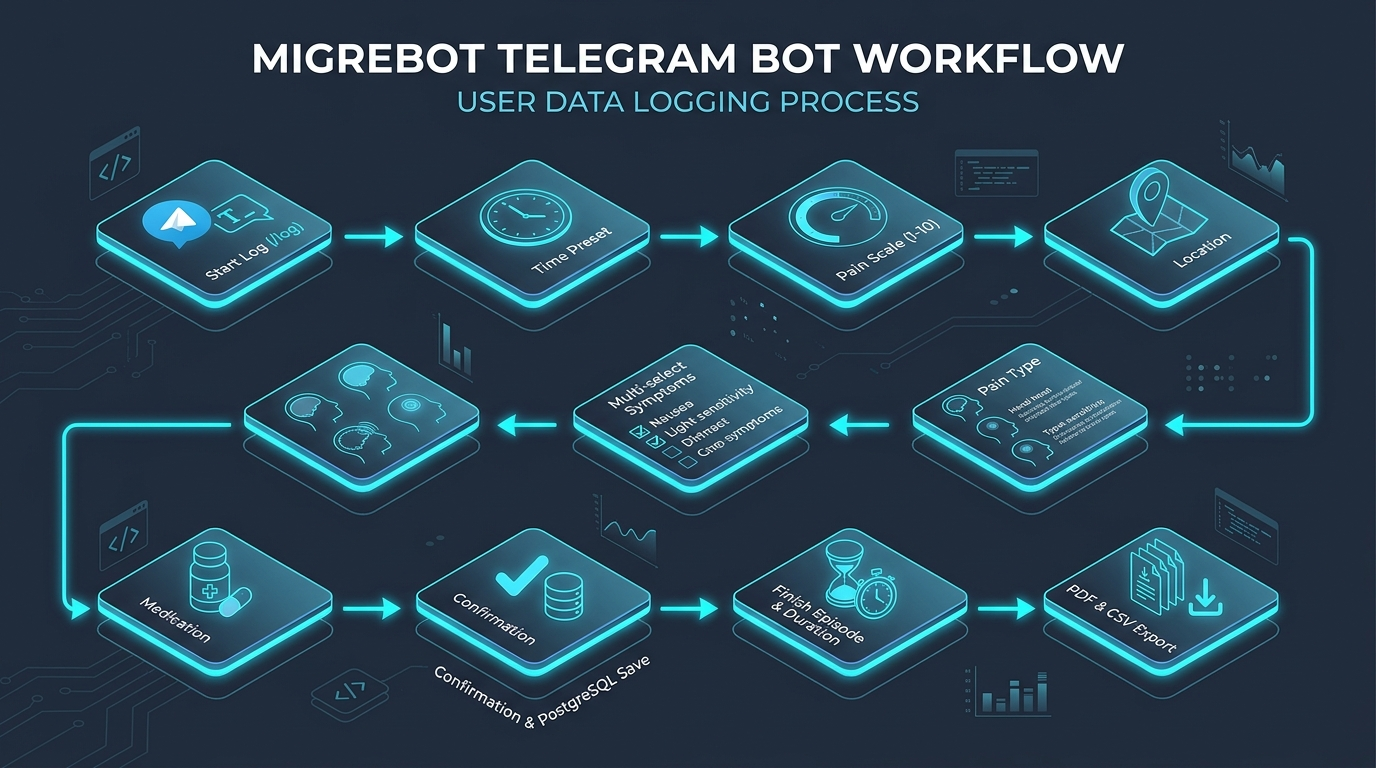
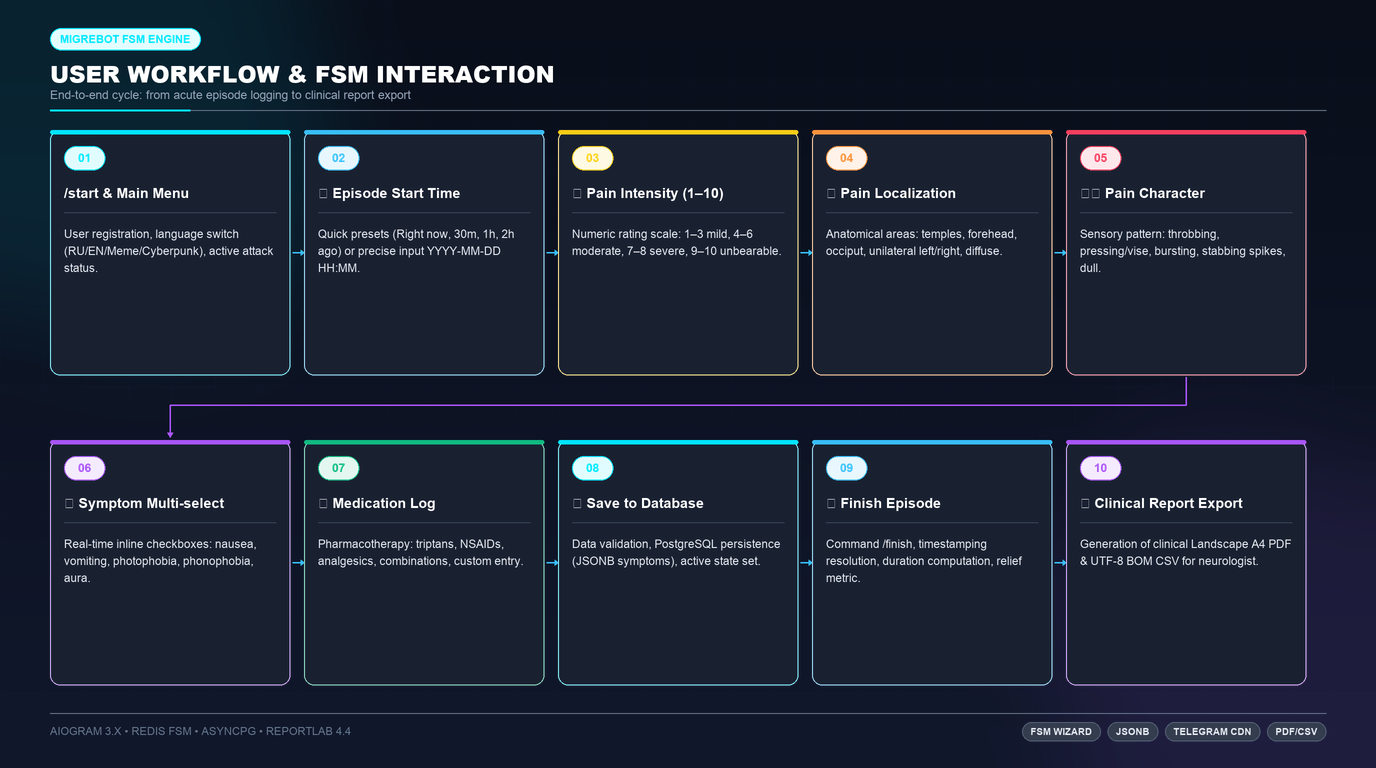
docs(assets): add high-precision typo-free diagrams & bot step cards (ru/en)

diff --git a/handlers/headache.py b/handlers/headache.py
@@ -20,7 +20,7 @@ from keyboards.headache_kb import (
 )
 from keyboards.main_menu import get_main_menu_keyboard, LOG_BUTTONS, CANCEL_BUTTONS
 from db import create_episode, get_active_episode, upsert_user, get_user_language
-from services.media_cache import get_photo_source, extract_and_record
+from services.media_cache import get_photo_source, extract_and_record, get_localized_asset
 from locales import (
     get_text,
     get_intensity_label,
@@ -32,15 +32,31 @@ from locales import (
 
 router = Router()
 
-# Paths to localized Russian step illustration cards
+# Paths to localized step illustration cards
 BASE_ASSETS = Path(__file__).parent.parent / "assets" / "images" / "ru"
-IMG_FLOW = BASE_ASSETS / "flow_diagram.png"
-IMG_HERO = BASE_ASSETS / "hero_banner.png"
-IMG_PAIN_SCALE = BASE_ASSETS / "steps" / "pain_scale.png"
-IMG_LOCATION = BASE_ASSETS / "steps" / "location.png"
-IMG_PAIN_TYPE = BASE_ASSETS / "steps" / "pain_type.png"
-IMG_SYMPTOMS = BASE_ASSETS / "steps" / "symptoms.png"
-IMG_MEDICATION = BASE_ASSETS / "steps" / "medication.png"
+
+
+def get_step_asset(step_name: str, lang: str = "ru") -> Path:
+    mapping = {
+        "flow": "flow_diagram.png",
+        "hero": "hero_banner.png",
+        "pain_scale": "steps/pain_scale.png",
+        "location": "steps/location.png",
+        "pain_type": "steps/pain_type.png",
+        "symptoms": "steps/symptoms.png",
+        "medication": "steps/medication.png",
+    }
+    rel = mapping.get(step_name, f"steps/{step_name}.png")
+    return get_localized_asset(rel, lang)
+
+
+IMG_FLOW = get_step_asset("flow", "ru")
+IMG_HERO = get_step_asset("hero", "ru")
+IMG_PAIN_SCALE = get_step_asset("pain_scale", "ru")
+IMG_LOCATION = get_step_asset("location", "ru")
+IMG_PAIN_TYPE = get_step_asset("pain_type", "ru")
+IMG_SYMPTOMS = get_step_asset("symptoms", "ru")
+IMG_MEDICATION = get_step_asset("medication", "ru")
 
 
 # --- Navigation History Helper ---
@@ -259,7 +275,7 @@ async def callback_back(callback: CallbackQuery, state: FSMContext):
         await state.set_state(HeadacheLogSG.start_time)
         await show_or_edit_step(
             callback,
-            IMG_FLOW,
+            get_step_asset("flow", lang),
             step_1_text(lang),
             get_start_time_keyboard(lang)
         )
@@ -283,7 +299,7 @@ async def callback_back(callback: CallbackQuery, state: FSMContext):
     if prev_state == HeadacheLogSG.start_time:
         await show_or_edit_step(
             callback,
-            IMG_FLOW,
+            get_step_asset("flow", lang),
             step_1_text(lang),
             get_start_time_keyboard(lang)
         )
@@ -291,7 +307,7 @@ async def callback_back(callback: CallbackQuery, state: FSMContext):
         time_str = data.get("start_time", datetime.now().strftime("%Y-%m-%d %H:%M"))
         await show_or_edit_step(
             callback,
-            IMG_PAIN_SCALE,
+            get_step_asset("pain_scale", lang),
             step_2_text(time_str, lang),
             get_intensity_keyboard(lang)
         )
@@ -299,7 +315,7 @@ async def callback_back(callback: CallbackQuery, state: FSMContext):
         intensity = data.get("intensity", 5)
         await show_or_edit_step(
             callback,
-            IMG_LOCATION,
+            get_step_asset("location", lang),
             step_3_text(intensity, lang),
             get_location_keyboard(lang)
         )
@@ -307,7 +323,7 @@ async def callback_back(callback: CallbackQuery, state: FSMContext):
         loc_key = data.get("location", "left")
         await show_or_edit_step(
             callback,
-            IMG_PAIN_TYPE,
+            get_step_asset("pain_type", lang),
             step_4_text(loc_key, lang),
             get_pain_type_keyboard(lang)
         )
@@ -316,14 +332,14 @@ async def callback_back(callback: CallbackQuery, state: FSMContext):
         selected_syms = set(data.get("symptoms", []))
         await show_or_edit_step(
             callback,
-            IMG_SYMPTOMS,
+            get_step_asset("symptoms", lang),
             step_5_text(pt_key, lang),
             get_symptoms_keyboard(selected_syms, lang)
         )
     elif prev_state == HeadacheLogSG.medication:
         await show_or_edit_step(
             callback,
-            IMG_MEDICATION,
+            get_step_asset("medication", lang),
             step_6_text(lang),
             get_medication_keyboard(lang)
         )
@@ -352,7 +368,7 @@ async def start_headache_log(message: Message, state: FSMContext):
     await state.set_state(HeadacheLogSG.start_time)
     await show_or_edit_step(
         message,
-        IMG_FLOW,
+        get_step_asset("flow", lang),
         step_1_text(lang),
         get_start_time_keyboard(lang)
     )
@@ -383,7 +399,7 @@ async def process_start_time(callback: CallbackQuery, callback_data: TimeCallbac
         )
         await show_or_edit_step(
             callback,
-            IMG_FLOW,
+            get_step_asset("flow", lang),
             custom_prompt,
             get_cancel_keyboard(show_back=True, lang=lang)
         )
@@ -395,7 +411,7 @@ async def process_start_time(callback: CallbackQuery, callback_data: TimeCallbac
     await state.set_state(HeadacheLogSG.intensity)
     await show_or_edit_step(
         callback,
-        IMG_PAIN_SCALE,
+        get_step_asset("pain_scale", lang),
         step_2_text(time_str, lang),
         get_intensity_keyboard(lang)
     )
@@ -411,7 +427,7 @@ async def process_custom_start_time(message: Message, state: FSMContext):
     await state.set_state(HeadacheLogSG.intensity)
     await show_or_edit_step(
         message,
-        IMG_PAIN_SCALE,
+        get_step_asset("pain_scale", lang),
         step_2_text(time_str, lang),
         get_intensity_keyboard(lang)
     )
@@ -429,7 +445,7 @@ async def process_intensity(callback: CallbackQuery, callback_data: IntensityCal
     await state.set_state(HeadacheLogSG.location)
     await show_or_edit_step(
         callback,
-        IMG_LOCATION,
+        get_step_asset("location", lang),
         step_3_text(intensity_val, lang),
         get_location_keyboard(lang)
     )
@@ -447,7 +463,7 @@ async def process_location(callback: CallbackQuery, callback_data: LocationCallb
     await state.set_state(HeadacheLogSG.pain_type)
     await show_or_edit_step(
         callback,
-        IMG_PAIN_TYPE,
+        get_step_asset("pain_type", lang),
         step_4_text(loc_key, lang),
         get_pain_type_keyboard(lang)
     )
@@ -466,7 +482,7 @@ async def process_pain_type(callback: CallbackQuery, callback_data: PainTypeCall
     await state.update_data(symptoms=[])
     await show_or_edit_step(
         callback,
-        IMG_SYMPTOMS,
+        get_step_asset("symptoms", lang),
         step_5_text(pt_key, lang),
         get_symptoms_keyboard(set(), lang)
     )
@@ -501,7 +517,7 @@ async def process_symptoms(callback: CallbackQuery, callback_data: SymptomCallba
         await state.set_state(HeadacheLogSG.medication)
         await show_or_edit_step(
             callback,
-            IMG_MEDICATION,
+            get_step_asset("medication", lang),
             step_6_text(lang),
             get_medication_keyboard(lang)
         )
@@ -520,7 +536,7 @@ async def process_medication_skip(callback: CallbackQuery, callback_data: Medica
         await state.set_state(HeadacheLogSG.confirm)
         await show_or_edit_step(
             callback,
-            IMG_FLOW,
+            get_step_asset("flow", lang),
             format_summary(data, lang),
             get_confirm_keyboard(lang)
         )
@@ -537,7 +553,7 @@ async def process_medication_input(message: Message, state: FSMContext):
     await state.set_state(HeadacheLogSG.confirm)
     await show_or_edit_step(
         message,
-        IMG_FLOW,
+        get_step_asset("flow", lang),
         format_summary(data, lang),
         get_confirm_keyboard(lang)
     )
@@ -577,7 +593,7 @@ async def process_confirmation(callback: CallbackQuery, callback_data: ConfirmCa
 
     await show_or_edit_step(
         callback,
-        IMG_HERO,
+        get_step_asset("hero", lang),
         saved_text,
         None
     )

diff --git a/handlers/startHandler.py b/handlers/startHandler.py
@@ -12,7 +12,7 @@ from keyboards.main_menu import (
     HELP_BUTTONS,
 )
 from db import upsert_user, get_recent_episodes, get_user_language
-from services.media_cache import get_photo_source, extract_and_record
+from services.media_cache import get_photo_source, extract_and_record, get_localized_asset
 from locales import (
     get_text,
     get_intensity_label,
@@ -22,9 +22,9 @@ from locales import (
     get_medication_map,
 )
 
-BANNER_PATH = Path(__file__).parent.parent / "assets" / "images" / "ru" / "hero_banner.png"
-FLOW_PATH = Path(__file__).parent.parent / "assets" / "images" / "ru" / "flow_diagram.png"
-DB_PATH = Path(__file__).parent.parent / "assets" / "images" / "ru" / "db_diagram.png"
+BANNER_PATH = get_localized_asset("hero_banner.png", "ru")
+FLOW_PATH = get_localized_asset("flow_diagram.png", "ru")
+DB_PATH = get_localized_asset("db_diagram.png", "ru")
 
 router = Router()
 
@@ -100,26 +100,27 @@ async def start(message: Message):
 
     welcome_text = get_text("start_welcome", lang)
     main_kb = get_main_menu_keyboard(lang)
+    banner_img = get_localized_asset("hero_banner.png", lang)
 
-    if BANNER_PATH.is_file():
-        photo_src = get_photo_source(BANNER_PATH)
+    if banner_img.is_file():
+        photo_src = get_photo_source(banner_img)
         try:
             res = await message.answer_photo(
                 photo=photo_src,
                 caption=welcome_text,
                 reply_markup=main_kb
             )
-            extract_and_record(BANNER_PATH, res)
+            extract_and_record(banner_img, res)
             return
         except Exception:
             if isinstance(photo_src, str):
                 try:
                     res = await message.answer_photo(
-                        photo=FSInputFile(str(BANNER_PATH)),
+                        photo=FSInputFile(str(banner_img)),
                         caption=welcome_text,
                         reply_markup=main_kb
                     )
-                    extract_and_record(BANNER_PATH, res)
+                    extract_and_record(banner_img, res)
                     return
                 except Exception:
                     pass
@@ -134,26 +135,27 @@ async def help_command(message: Message):
     lang = await get_user_language(user.id) if user else "ru"
     help_text = get_text("help_text", lang)
     main_kb = get_main_menu_keyboard(lang)
+    flow_img = get_localized_asset("flow_diagram.png", lang)
 
-    if FLOW_PATH.is_file():
-        photo_src = get_photo_source(FLOW_PATH)
+    if flow_img.is_file():
+        photo_src = get_photo_source(flow_img)
         try:
             res = await message.answer_photo(
                 photo=photo_src,
                 caption=help_text,
                 reply_markup=main_kb
             )
-            extract_and_record(FLOW_PATH, res)
+            extract_and_record(flow_img, res)
             return
         except Exception:
             if isinstance(photo_src, str):
                 try:
                     res = await message.answer_photo(
-                        photo=FSInputFile(str(FLOW_PATH)),
+                        photo=FSInputFile(str(flow_img)),
                         caption=help_text,
                         reply_markup=main_kb
                     )
-                    extract_and_record(FLOW_PATH, res)
+                    extract_and_record(flow_img, res)
                     return
                 except Exception:
                     pass

diff --git a/tests/test_flow.py b/tests/test_flow.py
@@ -796,6 +796,41 @@ class TestHeadacheFlow(unittest.IsolatedAsyncioTestCase):
             self.assertTrue("отпустила" in kwargs["text"] or "суета" in kwargs["text"])
             mock_sent.assert_called_with(99)
 
+    def test_localized_assets(self):
+        from services.media_cache import get_localized_asset, ASSETS_DIR
+        from PIL import Image
+
+        required_assets = [
+            "hero_banner.png",
+            "architecture_diagram.png",
+            "flow_diagram.png",
+            "db_diagram.png",
+            "steps/pain_scale.png",
+            "steps/location.png",
+            "steps/pain_type.png",
+            "steps/symptoms.png",
+            "steps/medication.png",
+        ]
+
+        for loc in ["ru", "en"]:
+            for asset in required_assets:
+                p = ASSETS_DIR / loc / asset
+                self.assertTrue(p.is_file(), f"Asset {p} does not exist!")
+                self.assertGreater(p.stat().st_size, 1000, f"Asset {p} is empty!")
+                with Image.open(p) as img:
+                    self.assertEqual(img.size, (1376, 768), f"Asset {p} dimensions != (1376, 768)")
+
+        # Verify get_localized_asset helper
+        ru_step = get_localized_asset("steps/pain_scale.png", "ru")
+        self.assertEqual(ru_step, ASSETS_DIR / "ru" / "steps" / "pain_scale.png")
+
+        en_step = get_localized_asset("steps/pain_scale.png", "en")
+        self.assertEqual(en_step, ASSETS_DIR / "en" / "steps" / "pain_scale.png")
+
+        # Fallback for meme / cyberpunk
+        meme_step = get_localized_asset("steps/pain_scale.png", "meme")
+        self.assertEqual(meme_step, ASSETS_DIR / "ru" / "steps" / "pain_scale.png")
+
 
 if __name__ == "__main__":
     unittest.main()

diff --git a/services/media_cache.py b/services/media_cache.py
@@ -7,9 +7,23 @@ from aiogram.types import FSInputFile, InputMediaPhoto, Message
 logger = logging.getLogger(__name__)
 
 CACHE_FILE = Path(__file__).parent.parent / "assets" / "image_cache.json"
+ASSETS_DIR = Path(__file__).parent.parent / "assets" / "images"
 
 # In-memory storage for telegram photo file_ids
 _FILE_ID_CACHE: dict[str, str] = {}
+
+
+def get_localized_asset(rel_path: str, lang: str = "ru") -> Path:
+    """
+    Returns path to localized asset if available (e.g. 'steps/pain_scale.png' with lang='en'
+    looks in 'en/steps/pain_scale.png', then falls back to 'ru/steps/pain_scale.png').
+    """
+    loc = "en" if lang == "en" else "ru"
+    target = ASSETS_DIR / loc / rel_path
+    if target.is_file():
+        return target
+    fallback = ASSETS_DIR / "ru" / rel_path
+    return fallback
 
 
 def _get_keys(image_path: Union[Path, str]) -> list[str]:
@@ -17,7 +31,7 @@ def _get_keys(image_path: Union[Path, str]) -> list[str]:
     p = Path(image_path)
     keys = [p.name]
     try:
-        assets_dir = Path(__file__).parent.parent / "assets" / "images"
+        assets_dir = ASSETS_DIR
         if assets_dir in p.resolve().parents or p.is_relative_to(assets_dir):
             rel = str(p.relative_to(assets_dir))
             keys.append(rel)

diff --git a/handlers/exportHandler.py b/handlers/exportHandler.py
@@ -8,9 +8,10 @@ from db import get_all_episodes, get_user_language
 from keyboards.headache_kb import get_export_keyboard, ExportCallback
 from keyboards.main_menu import get_main_menu_keyboard, EXPORT_BUTTONS
 from services import generate_csv, generate_pdf
+from services.media_cache import get_localized_asset
 from locales import get_text
 
-IMG_EXPORT = Path(__file__).parent.parent / "assets" / "images" / "ru" / "architecture_diagram.png"
+IMG_EXPORT = get_localized_asset("architecture_diagram.png", "ru")
 
 router = Router()
 
@@ -31,11 +32,12 @@ async def cmd_export(message: Message):
 
     text = get_text("export_title", lang, count=len(episodes))
     kb = get_export_keyboard(lang)
+    export_img = get_localized_asset("architecture_diagram.png", lang)
 
-    if IMG_EXPORT.is_file():
+    if export_img.is_file():
         try:
             await message.answer_photo(
-                photo=FSInputFile(str(IMG_EXPORT)),
+                photo=FSInputFile(str(export_img)),
                 caption=text,
                 reply_markup=kb
             )
